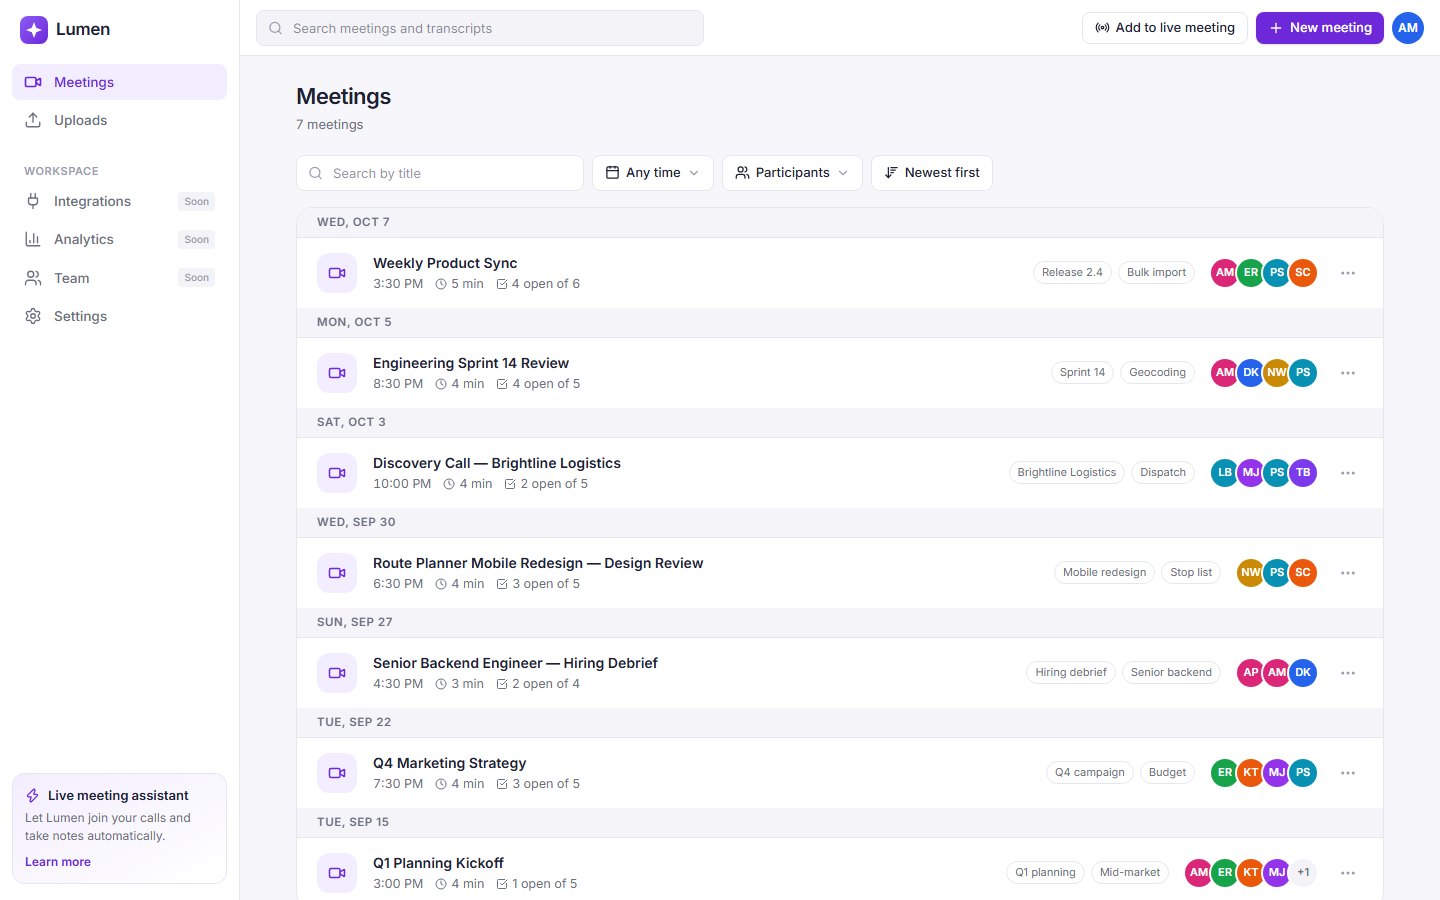
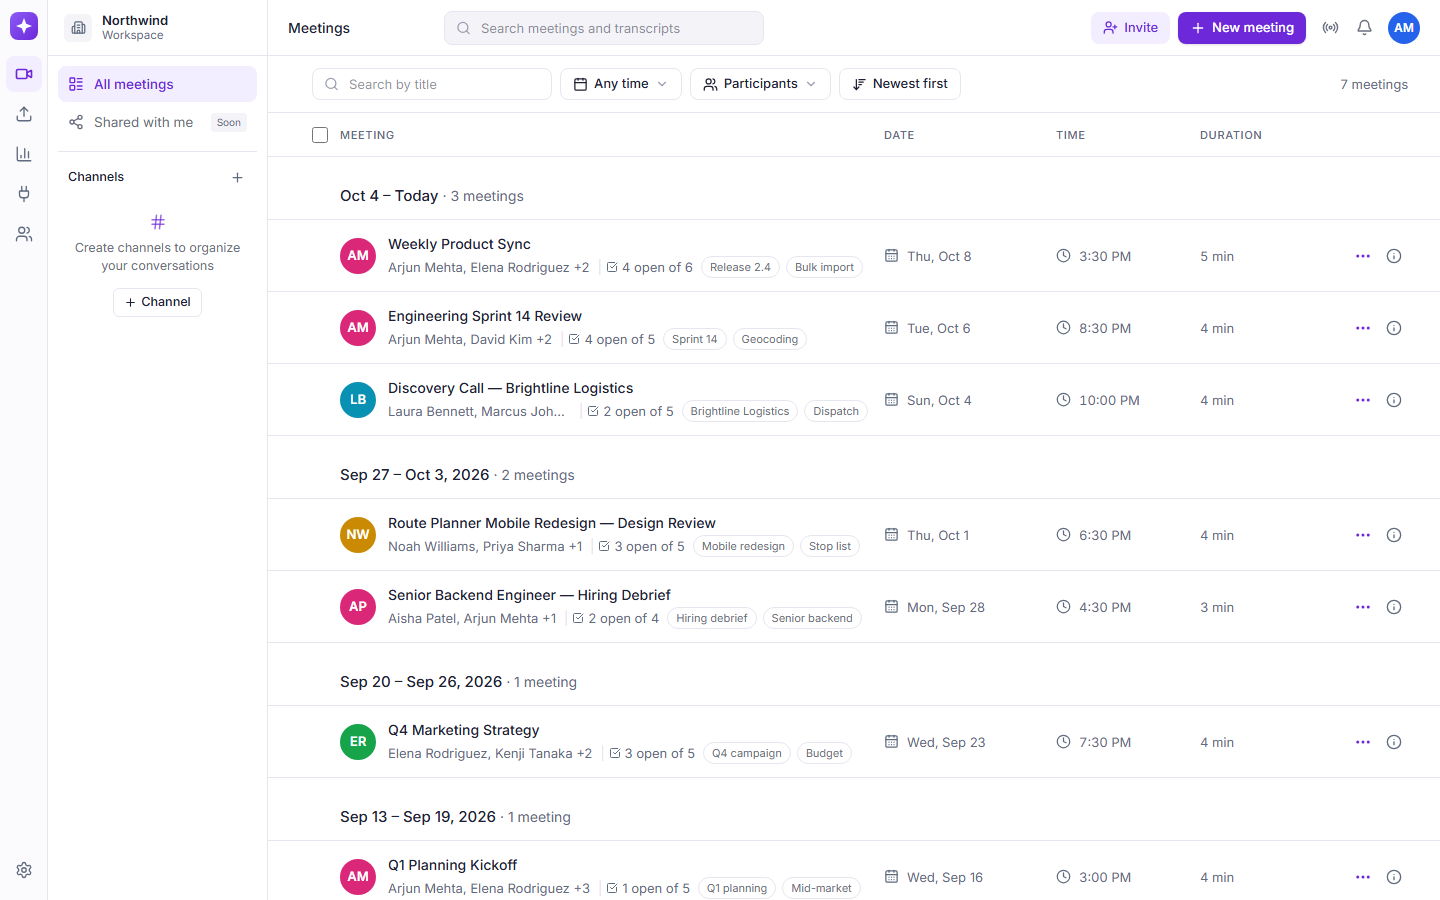
docs: record the library redesign and refresh screenshots

diff --git a/docs/UI_FIDELITY_AUDIT.md b/docs/UI_FIDELITY_AUDIT.md
@@ -19,7 +19,7 @@ How closely the UI follows the Fireflies meeting workspace, checked against scre
 | Area | Fireflies pattern | Here |
 |------|-------------------|------|
 | Navigation | Left sidebar with an active item in the brand colour; a top bar with global search, a live-meeting call-to-action, "New" and an avatar | Same structure. Out-of-scope items are marked "Soon" and open Coming-soon dialogs |
-| Library | Meetings grouped by day; rows with title, time, duration and participant avatars; overflow menu | Day groups, a time · duration · open-tasks line, AI keyword chips, an avatar stack and a ⋯ menu (edit, delete) |
+| Library | Icon rail + contextual Meetings sidebar; compact toolbar; a table with MEETING / DATE / TIME / DURATION columns, week groups with a count, divider-only rows, ⋯ and ⓘ at the far right | Day groups, a time · duration · open-tasks line, AI keyword chips, an avatar stack and a ⋯ menu (edit, delete) |
 | Workspace | Notepad: AI notes on one side, transcript on the other, docked player | Notes on the left (keywords → overview → outline → action items by assignee → talk time), transcript on the right, docked player with a speaker timeline and speed control |
 | Transcript | Coloured speaker avatars, name with timestamp, click to play from a line, find-in-transcript | Same, plus an active-line highlight, auto-follow with a "Back to current" button, and a match counter with ↑/↓ |
 | Feedback | Toasts for actions; clear processing state | Toasts for every mutation and failure; "Generating notes…", "Notes ready" and "Failed + Retry" chips |
@@ -45,6 +45,37 @@ How closely the UI follows the Fireflies meeting workspace, checked against scre
 | 8 | The "System" theme card's hint wrapped onto a third line | Shorter hint ("Follow device") |
 | 9 | Dark mode: checked keyword chips, outline timestamps, status chips, highlights and the expanded notes for contrast | No changes needed. Text tokens meet WCAG AA against their surfaces |
 | 10 | States: empty library ("No meetings match your filters" + Clear filters), not-found meeting, loading skeletons, failed notes with Retry | Reviewed. Each already had a clear next action; no changes |
+
+## Library redesign (against a Fireflies Meetings screenshot)
+
+The baseline looked like a different product: one wide sidebar, a large page header, a rounded card, grey
+uppercase day bands and fields positioned with flex spacing. The redesign was compared side by side at 1440, 1024
+and 390 px.
+
+**Pass A: shell, navigation, toolbar, grid and proportions**
+
+| # | Change |
+|---|--------|
+| A1 | The single sidebar is replaced by a 48 px **icon rail** (logo, Meetings, Uploads, Analytics, Integrations, Team; Settings at the bottom, with tooltips) and a 220 px **contextual Meetings sidebar** on the library. It has All meetings, Shared with me (Soon), and Channels with an empty state and "+ Channel" (Soon). There is no "My meetings": the demo user attends no seeded meeting, so that view would always be empty, which would be false functionality |
+| A2 | A 56 px toolbar on one line: the page label (the library's `h1`), global search (≤ 320 px), Invite (Soon), **New meeting**, Add to live meeting, Notifications (Soon) and the avatar menu. The large in-content page header is gone |
+| A3 | A full-width table on one CSS grid template (`tableGrid.ts`) shared by the header and every row. MEETING / DATE / TIME / DURATION headings line up with their cells to within 2 px (E2E-checked) |
+| A4 | Rows are 72 px tall with divider lines instead of a rounded card. The details cell has the checkbox, one participant avatar, the title, and a second line with participants, open action items, status and up to two tag chips |
+| A5 | Date groups are by **week** (Sunday start, as in the reference): "Oct 4 – Today · 3 meetings" |
+
+**Pass B: date contrast, type, spacing, controls and responsive states**
+
+| # | Change |
+|---|--------|
+| B1 | Group headings use dark 15 px / 500 text (`.type-group-heading`), with the count on the same line in muted blue-gray (`.type-group-count`). The grey uppercase band is gone |
+| B2 | New tokens in both themes: `--meta` (blue-gray metadata, AA contrast), `--row-hover` and `--rail`. Type classes: `.type-col-heading`, `.type-row-title`, `.type-meta` |
+| B3 | The "+N" avatar badge was removed: it duplicated the "+N" in the names line and cluttered the avatar |
+| B4 | The duplicate "Uploads" entry was removed from the contextual sidebar (the rail has it, as in the reference). An E2E test caught the ambiguity |
+| B5 | 1024 px: the contextual sidebar stays, the date/time/duration columns narrow (116 / 92 / 76 px), filters fit on one line, and the toolbar label is narrower |
+| B6 | 390 px: the rails become a drawer (primary items plus the Meetings section). Rows collapse to avatar, title, participants and "date · time · duration". Filter controls scroll sideways instead of stacking. No horizontal page overflow (E2E) |
+| B7 | Row actions: ⋯ (Open, Edit details, Delete) and ⓘ details (participants, clickable tags, action items). Checkboxes appear on hover or focus and stay visible once something is selected; selecting rows enables a real bulk delete |
+
+Kept unchanged: search, date and participant filters, sorting, tags, detail navigation, edit and delete, the API and
+database, dark mode.
 
 ## Known differences (accepted)
 

diff --git a/README.md b/README.md
@@ -31,8 +31,9 @@ generated asynchronously by a separate AI Processing Service via Kafka.
   [docs/PROJECT_PLAN.md](docs/PROJECT_PLAN.md).
 
 ## Features
-**Meetings library** — day-grouped list with title, time, duration, participants, open action items and keyword
-tags · debounced title search (also from the top bar) · date presets and custom range · participant filter ·
+**Meetings library** — a Fireflies-style meetings table: weekly groups ("Oct 4 – Today · 3 meetings") with aligned
+Meeting / Date / Time / Duration columns, participants, open action items and keyword tags, a details popover, and
+multi-select with bulk delete · debounced title search (also from the top bar) · date presets and custom range · participant filter ·
 newest/oldest sort · tag filter · filters live in the URL, so links and refreshes keep them.
 
 **Meeting workspace** (Fireflies' "Notepad") — notes on the left, transcript on the right, player docked below:
@@ -242,8 +243,8 @@ seed an empty database automatically.
 | Meeting Service — pytest | API, schema constraints, migrations, parser, seed, outbox relay, consumer, idempotent results | 183 passed · 97 % coverage |
 | Meeting Service — `pytest -m kafka` | Real broker: round trip, full pipeline through the AI service container, duplicate delivery applied once | 3 passed |
 | AI service — pytest | Mock provider heuristics, retries/failures, Kafka loop, HTTP endpoint auth | 39 passed · 99 % coverage |
-| Frontend — Vitest | Active-segment search, playback clock, transcript search, filters, formatting, export, theme | 75 passed |
-| Frontend — Playwright | Every must-have workflow plus bonuses in a real browser against the real stack | 42 passed |
+| Frontend — Vitest | Active-segment search, playback clock, transcript search, filters, formatting, export, theme | 76 passed |
+| Frontend — Playwright | Every must-have workflow plus bonuses in a real browser against the real stack | 45 passed |
 
 ```bash
 # Backend: unit + integration (each service's virtual environment active)
@@ -361,5 +362,5 @@ Captured from the running application (seeded data).
 | ![Filters](docs/screenshots/library-filters.png) | ![Mobile](docs/screenshots/mobile.png) |
 | **Dark mode — library** | **Dark mode — transcript expanded, searching** |
 | ![Dark library](docs/screenshots/dark-library.png) | ![Dark workspace](docs/screenshots/dark-workspace.png) |
-| **Settings → Appearance (System / Light / Dark)** | |
-| ![Appearance settings](docs/screenshots/settings-appearance.png) | |
+| **Settings → Appearance (System / Light / Dark)** | **Library at tablet width (1024 px)** |
+| ![Appearance settings](docs/screenshots/settings-appearance.png) | ![Library at 1024 px](docs/screenshots/library-1024.png) |

diff --git a/docs/EVALUATION_MATRIX.md b/docs/EVALUATION_MATRIX.md
@@ -16,7 +16,7 @@ Paths: `ms/` = `backend/meeting-service`, `ai/` = `backend/ai-service`, `fe/` = 
 
 | Evidence | Where | Req IDs | Status |
 |----------|-------|---------|--------|
-| Library lists meetings with title, date, duration, participants, grouped by day | `/meetings` — `fe/components/meetings/` | R1.1 | ✅ |
+| Library: a meetings table with title, participants, date, time and duration in aligned columns, grouped by week | `/meetings` — `fe/components/meetings/` | R1.1 | ✅ |
 | Title search, date presets + custom range, participant filter, sort, keyword tags — combinable and URL-synced | `/meetings?q=…&participant=…&date=7d` | R1.2–R1.5 | ✅ |
 | Transcript with speaker, avatar and timestamp per line | `/meetings/{id}` right panel | R2.1 | ✅ |
 | Player: play/pause, ±15 s, seek bar with speaker timeline, speed 0.75–2× | bottom player bar | R2.2 | ✅ |
@@ -27,7 +27,7 @@ Paths: `ms/` = `backend/meeting-service`, `ai/` = `backend/ai-service`, `fe/` = 
 | Create (upload .txt/.vtt/.json, paste, form), edit, delete | dialogs | R4.1–R4.5 | ✅ |
 | Add / edit / complete / uncomplete / delete action items | action items section | R4.6–R4.8 | ✅ |
 | Everything survives a refresh and a server restart | any | R4.9 | ✅ |
-| **Proof:** 42 Playwright tests drive all of the above against the real stack | `fe/tests/e2e/` | all | ✅ |
+| **Proof:** 45 Playwright tests drive all of the above against the real stack | `fe/tests/e2e/` | all | ✅ |
 
 ## 2. UI/UX
 
@@ -106,7 +106,7 @@ Paths: `ms/` = `backend/meeting-service`, `ai/` = `backend/ai-service`, `fe/` = 
 | `SummaryProvider` interface (mock today; LLM = one class) and one `MeetingProcessor` shared by Kafka and HTTP | `ai/app/providers`, `ai/app/processors` | ✅ |
 | Transcript parser module per format (txt / vtt / json) behind one function | `ms/app/services/transcript_parser.py` | ✅ |
 | `PlaybackClock` interface: simulated clock now, a media-element clock later — sync code unchanged | `fe/lib/playback.ts` | ✅ |
-| Pure, unit-tested logic outside JSX: active segment, search, filters, formatting | `fe/lib/*.ts` (75 Vitest tests) | ✅ |
+| Pure, unit-tested logic outside JSX: active segment, search, filters, formatting | `fe/lib/*.ts` (76 Vitest tests) | ✅ |
 | Reusable components: `Modal`, `Menu`, `Avatar(Stack)`, `StatusChip`, `EmptyState/ErrorState`, `ParticipantsInput`, `ActionItemEditor` (add + edit) | `fe/components/ui`, … | ✅ |
 | Server state in one place (TanStack Query hooks, targeted invalidation) | `fe/hooks/queries.ts` | ✅ |
 

diff --git a/docs/TEST_COVERAGE_MATRIX.md b/docs/TEST_COVERAGE_MATRIX.md
@@ -10,7 +10,7 @@ E2E tests run against the real stack (both FastAPI services + production fronten
 
 | Req | Requirement | Unit | Integration (API / DB) | E2E (browser) |
 |-----|-------------|------|------------------------|---------------|
-| R1.1 | List with title, date, duration, participants | — | ✓ `ms/integration/test_meetings_api.py::test_list_returns_required_fields_newest_first` | ✓ `library.spec` "lists meetings with title, date, duration and participants" |
+| R1.1 | List with title, date, duration, participants | ✓ `fe/lib/format.test.ts` (week grouping, date column) | ✓ `ms/integration/test_meetings_api.py::test_list_returns_required_fields_newest_first` | ✓ `library.spec` "lists meetings with title, date, duration and participants" |
 | R1.2 | Search by title | ✓ `fe/lib/format.test.ts` (URL round-trip) | ✓ `test_search_by_title_is_case_insensitive`, `test_search_treats_like_wildcards_literally` | ✓ "search by title narrows the list and survives a reload", "top-bar search…" |
 | R1.3 | Filter by date | ✓ `format.test.ts` "turns presets into inclusive day ranges" | ✓ `test_filter_by_date_range_is_inclusive`, `test_inverted_date_range_is_rejected` | ✓ "filter by date range" |
 | R1.4 | Filter by participant | — | ✓ `test_filter_by_participant_any_of`, `test_filters_combine` | ✓ "filter by participant" |
@@ -60,6 +60,9 @@ E2E tests run against the real stack (both FastAPI services + production fronten
 | Invalid payloads | ✓ `test_invalid_create_payloads_are_422` (9 cases), action-item `test_invalid_payloads` (5 cases) |
 | Stale UI after mutation | ✓ cache invalidation per mutation (`hooks/queries.ts`); every E2E CRUD test reloads |
 | Phone-width layout | ✓ E2E `responsive.spec` (no horizontal scroll, drawer, tabs) |
+| Table columns align with their headings; week groups show a count | ✓ E2E `library.spec` "meetings are grouped by week…" |
+| Row details popover; tag from details filters | ✓ E2E `library.spec` "row details show participants and tags…" |
+| Multi-select and bulk delete (persisted) | ✓ E2E `library.spec` "select meetings and delete them together" |
 | Expanded panel keeps sync working | ✓ E2E "notes or transcript can be expanded…" (click-to-seek while expanded) |
 
 ## Bonus features

diff --git a/docs/REQUIREMENTS_MATRIX.md b/docs/REQUIREMENTS_MATRIX.md
@@ -155,7 +155,7 @@ Code existing is **not** enough.
 | X2a | Visible processing state `not_requested → pending → processing → completed / failed` | EXTRA (supports R3.4) | `meetings.processing_status`; FE `SummaryStatus` ("Generating notes…" / Ready / Failed + Retry) | Service unit (state transitions); integration; E2E | New meeting shows Processing… then Ready | ✅ status chip, generating skeleton, failed + Retry, 'Notes ready' toast; E2E |
 | X2b | `PROCESSING_MODE=kafka\|http\|inline-test` — free-hosting fallback reusing the same envelope, processor and idempotent apply path | EXTRA (supports D8) | `EventPublisher` implementations in MS; AI `POST /internal/process` | Tests run the pipeline through `InMemoryEventPublisher`; HTTP mode integration test | Deployed demo generates summaries even without a broker | ✅ HTTP fallback tested in-process (`test_http_fallback_pipeline_end_to_end`) and in the AI service |
 | X3 | Backend coverage ~90%+ (where practical) | EXTRA | pytest-cov, `--cov-fail-under=90` in CI | CI gate (reproduced in a Linux container) | Coverage report | ✅ 97 % / 99 % line + branch |
-| X4 | Playwright E2E for critical flows | EXTRA | `frontend/tests/e2e` | CI job | — | ✅ 42 Playwright tests against the real stack |
+| X4 | Playwright E2E for critical flows | EXTRA | `frontend/tests/e2e` | CI job | — | ✅ 45 Playwright tests against the real stack |
 | X5 | GitHub Actions CI on PR + push to main | EXTRA | `.github/workflows/ci.yml`: backend lint/format/types/tests+coverage, contract check, Kafka job, frontend lint/format/types/unit/build/E2E | Every job's commands run locally; backend job reproduced in `python:3.11-slim` | Green checks on PRs | 🟨 verified locally; first GitHub run when the repo is published |
 | X6 | Professional Git workflow: issues → branches → PRs | EXTRA | [PROJECT_PLAN.md](PROJECT_PLAN.md); feature branches merged with `--no-ff`; PR descriptions in [PULL_REQUESTS.md](PULL_REQUESTS.md) | — | Git history | ✅ locally; PRs become real once published |
 | X7 | Loading / empty / error states on every screen | EXTRA (supports R5) | Shared `ui/EmptyState`, `ui/ErrorState`, skeletons | E2E with mocked API failure | — | ✅ shared EmptyState/ErrorState/Skeleton on every screen; E2E failure specs |

diff --git a/FINAL_EVALUATION_REPORT.md b/FINAL_EVALUATION_REPORT.md
@@ -48,7 +48,7 @@ author actions in §6. Until they're done, the PDF's deliverables are not met.
 
 ### Functionality
 - **Evidence:**
-  - 42 Playwright tests drive every MUST workflow against both real services and a production frontend build.
+  - 45 Playwright tests drive every MUST workflow against both real services and a production frontend build.
   - 183 + 39 backend tests, and 3 tests against a real Kafka broker.
   - The production stack was verified locally.
 - **Strengths:**
@@ -65,7 +65,7 @@ author actions in §6. Until they're done, the PDF's deliverables are not met.
     ready).
 
 ### UI/UX
-- **Evidence:** Fireflies-style sidebar, top bar and day-grouped library. Notepad workspace with notes and
+- **Evidence:** Fireflies-style shell (icon rail, contextual Meetings sidebar, compact toolbar) and a weekly-grouped meetings table with aligned columns. Notepad workspace with notes and
   transcript panels (each expandable), speaker colours, a docked player with a speaker timeline. Toasts; loading,
   empty and error states; responsive layout; System / Light / Dark. Screenshots are in the README.
 - **Strengths:** Information hierarchy and interaction patterns follow the Fireflies Notepad closely. Two recorded
@@ -135,8 +135,8 @@ author actions in §6. Until they're done, the PDF's deliverables are not met.
 | ai-service: ruff, format, mypy, pytest | Clean; **39 passed**; coverage **98.84 %** |
 | Event contract schemas | Identical in both services |
 | Frontend: lint, format, typecheck, production build | Clean |
-| Vitest | **75 passed** |
-| Playwright (both services + production build) | **42 passed** |
+| Vitest | **76 passed** |
+| Playwright (both services + production build) | **45 passed** |
 | CI workflow | Valid YAML, 4 jobs; commands verified locally; **not yet run on GitHub** |
 | Production stack (`deploy/`) through Caddy | Healthy; Kafka summary in about 2 s; CRUD; full-restart persistence; in-flight request survives a broker restart; no console errors |
 

diff --git a/docs/LIVE_SCORECARD.md b/docs/LIVE_SCORECARD.md
@@ -8,7 +8,7 @@ _Last updated: final submission pass (2026-10-09). Strict summary: [FINAL_EVALUA
 
 | Criterion | Status | Evidence | Open risk |
 |-----------|--------|----------|-----------|
-| Functionality | VERIFIED | 30 / 30 MUST rows VERIFIED in [REQUIREMENTS_MATRIX](REQUIREMENTS_MATRIX.md). 42 Playwright tests against the real services, 183 + 39 backend tests, 3 real-Kafka tests. Production stack verified locally, including restart persistence | The hosted link doesn't exist until the author chooses a host |
+| Functionality | VERIFIED | 30 / 30 MUST rows VERIFIED in [REQUIREMENTS_MATRIX](REQUIREMENTS_MATRIX.md). 45 Playwright tests against the real services, 183 + 39 backend tests, 3 real-Kafka tests. Production stack verified locally, including restart persistence | The hosted link doesn't exist until the author chooses a host |
 | UI/UX | VERIFIED | Fireflies-style shell, notepad workspace with expandable panels, speaker-styled transcript, docked player, toasts, all empty/error/loading states, responsive, System / Light / Dark. Two QA passes in [UI_FIDELITY_AUDIT](UI_FIDELITY_AUDIT.md) | Similarity is judged subjectively; the brand is deliberately original |
 | Database Design | VERIFIED | Normalised schema with 10 tables, CHECK / UNIQUE / FK constraints with explicit ON DELETE, justified indexes; each constraint tested; migration ≡ models test | SQLite's single writer (documented) |
 | Backend / API Design | VERIFIED | 15 REST operations + 2 health endpoints, router → service → repository, one error envelope, OpenAPI. Async pipeline: outbox → Kafka → AI → Kafka → idempotent consumer, verified against a real broker, duplicates included | Kafka may look heavy for the scope; ADR-004/005 explain why |

diff --git a/docs/FINAL_DEMO_SCRIPT.md b/docs/FINAL_DEMO_SCRIPT.md
@@ -13,7 +13,8 @@ locally run `docker compose up -d` plus `npm run dev` (README "Local Setup").
 1. Point out the layout:
    - The sidebar (Meetings active, "Soon" badges on integrations, team and analytics).
    - The top bar (global search, *Add to live meeting*, *New meeting*, account menu).
-   - Meetings grouped by day, each showing title, time, duration, open action items, AI keyword tags and avatars.
+   - The meetings table, grouped by week with a count, and Date / Time / Duration columns; each row shows the title,
+     participants, open action items, AI keyword tags and avatars.
 2. Type `sprint` in **Search by title**. The list narrows, and the URL updates (refresh to show it persists).
 3. **Any time → Last 30 days**, then **Participants → Priya Sharma**. Filters combine. Click **Clear filters**.
 4. Click **Newest first** to show sort by recency.
@@ -71,8 +72,8 @@ locally run `docker compose up -d` plus `npm run dev` (README "Local Setup").
 - Mention the test suites:
   - 183 + 39 backend tests (97 % / 99 % coverage).
   - 3 tests against a real Kafka broker (incl. duplicate delivery applied once).
-  - 75 Vitest tests.
-  - 42 Playwright tests against the real services.
+  - 76 Vitest tests.
+  - 45 Playwright tests against the real services.
 - Repo tour: `backend/meeting-service/app/{routers,services,repositories,events}`, `backend/ai-service`,
   `frontend/{app,components,hooks,lib}`, `docs/adr/`.
 

diff --git a/docs/UI_DESIGN_SPEC.md b/docs/UI_DESIGN_SPEC.md
@@ -29,7 +29,7 @@
 │ Meetings││ ─────────────────────────────────────────────────────────────────── │
 │ Uploads ││ ▢ Q3 Roadmap Planning      Sep 30, 10:00 · 45 min   (PS)(AM)(+2)  ⋯ │
 │ …       ││ ▢ Acme renewal call        Sep 29, 15:30 · 32 min   (JL)(PS)      ⋯ │
-│ Settings││ grouped by day: "Today", "Yesterday", "Sep 28"…                    │
+│ Settings││ grouped by week: "Oct 4 – Today · 3 meetings"…                    │
 └─────────┘└─────────────────────────────────────────────────────────────────────┘
 ```
 **Workspace (`/meetings/[id]`)**

diff --git a/docs/TESTING.md b/docs/TESTING.md
@@ -43,8 +43,8 @@ cd frontend && npm run build && npm run test:e2e      # Playwright (needs `npx p
 | meeting-service unit + integration | 183 passed | 97 % (97.45 %) |
 | meeting-service `-m kafka` (real broker + AI container) | 3 passed (round trip, pipeline, duplicate delivery) | — |
 | ai-service unit + integration | 39 passed | 99 % (98.84 %) |
-| frontend Vitest | 75 passed | — |
-| frontend Playwright (real stack, production build) | 42 passed | — |
+| frontend Vitest | 76 passed | — |
+| frontend Playwright (real stack, production build) | 45 passed | — |
 
 Both backend suites were also run **in a clean `python:3.11-slim` Linux container** with exactly the CI job's
 commands (ruff, ruff format, mypy, pytest with the 90 % gate), and passed. This is the same OS and Python version as

diff --git a/docs/INTERVIEW_GUIDE.md b/docs/INTERVIEW_GUIDE.md
@@ -386,8 +386,8 @@ The design records behind them are in the [ADRs](adr/) and [DEVELOPMENT_GUIDE.md
 - **Numbers (latest run):**
   - 183 meeting-service tests (97 % line + branch coverage) and 39 AI-service tests (99 %).
   - 3 real-Kafka tests.
-  - 75 Vitest tests.
-  - 42 Playwright tests.
+  - 76 Vitest tests.
+  - 45 Playwright tests.
 - **Trade-off:** E2E runs the services in HTTP mode, so the browser suite needs no broker; the separate `kafka` job
   covers the broker. Tests never weaken a check to pass. When a test failed, either the code or a wrong assumption in
   the test was fixed, and both cases are recorded in PROGRESS.md.

diff --git a/docs/CI_CD.md b/docs/CI_CD.md
@@ -32,7 +32,7 @@ reviewer that never gets tired, and green checks on PRs are visible evidence for
 | backend × 2 | ruff, format, mypy clean; 183 + 39 tests; 97.45 % / 98.84 % coverage (gate 90 %) |
 | event-contract | both schema files identical |
 | kafka | 3 passed against the compose broker and AI container |
-| frontend | lint, format, typecheck, build clean; 75 Vitest + 42 Playwright tests passed |
+| frontend | lint, format, typecheck, build clean; 76 Vitest + 45 Playwright tests passed |
 | workflow file | parsed as valid YAML (4 jobs) |
 
 ## Branch protection (to set once the repository is public)
